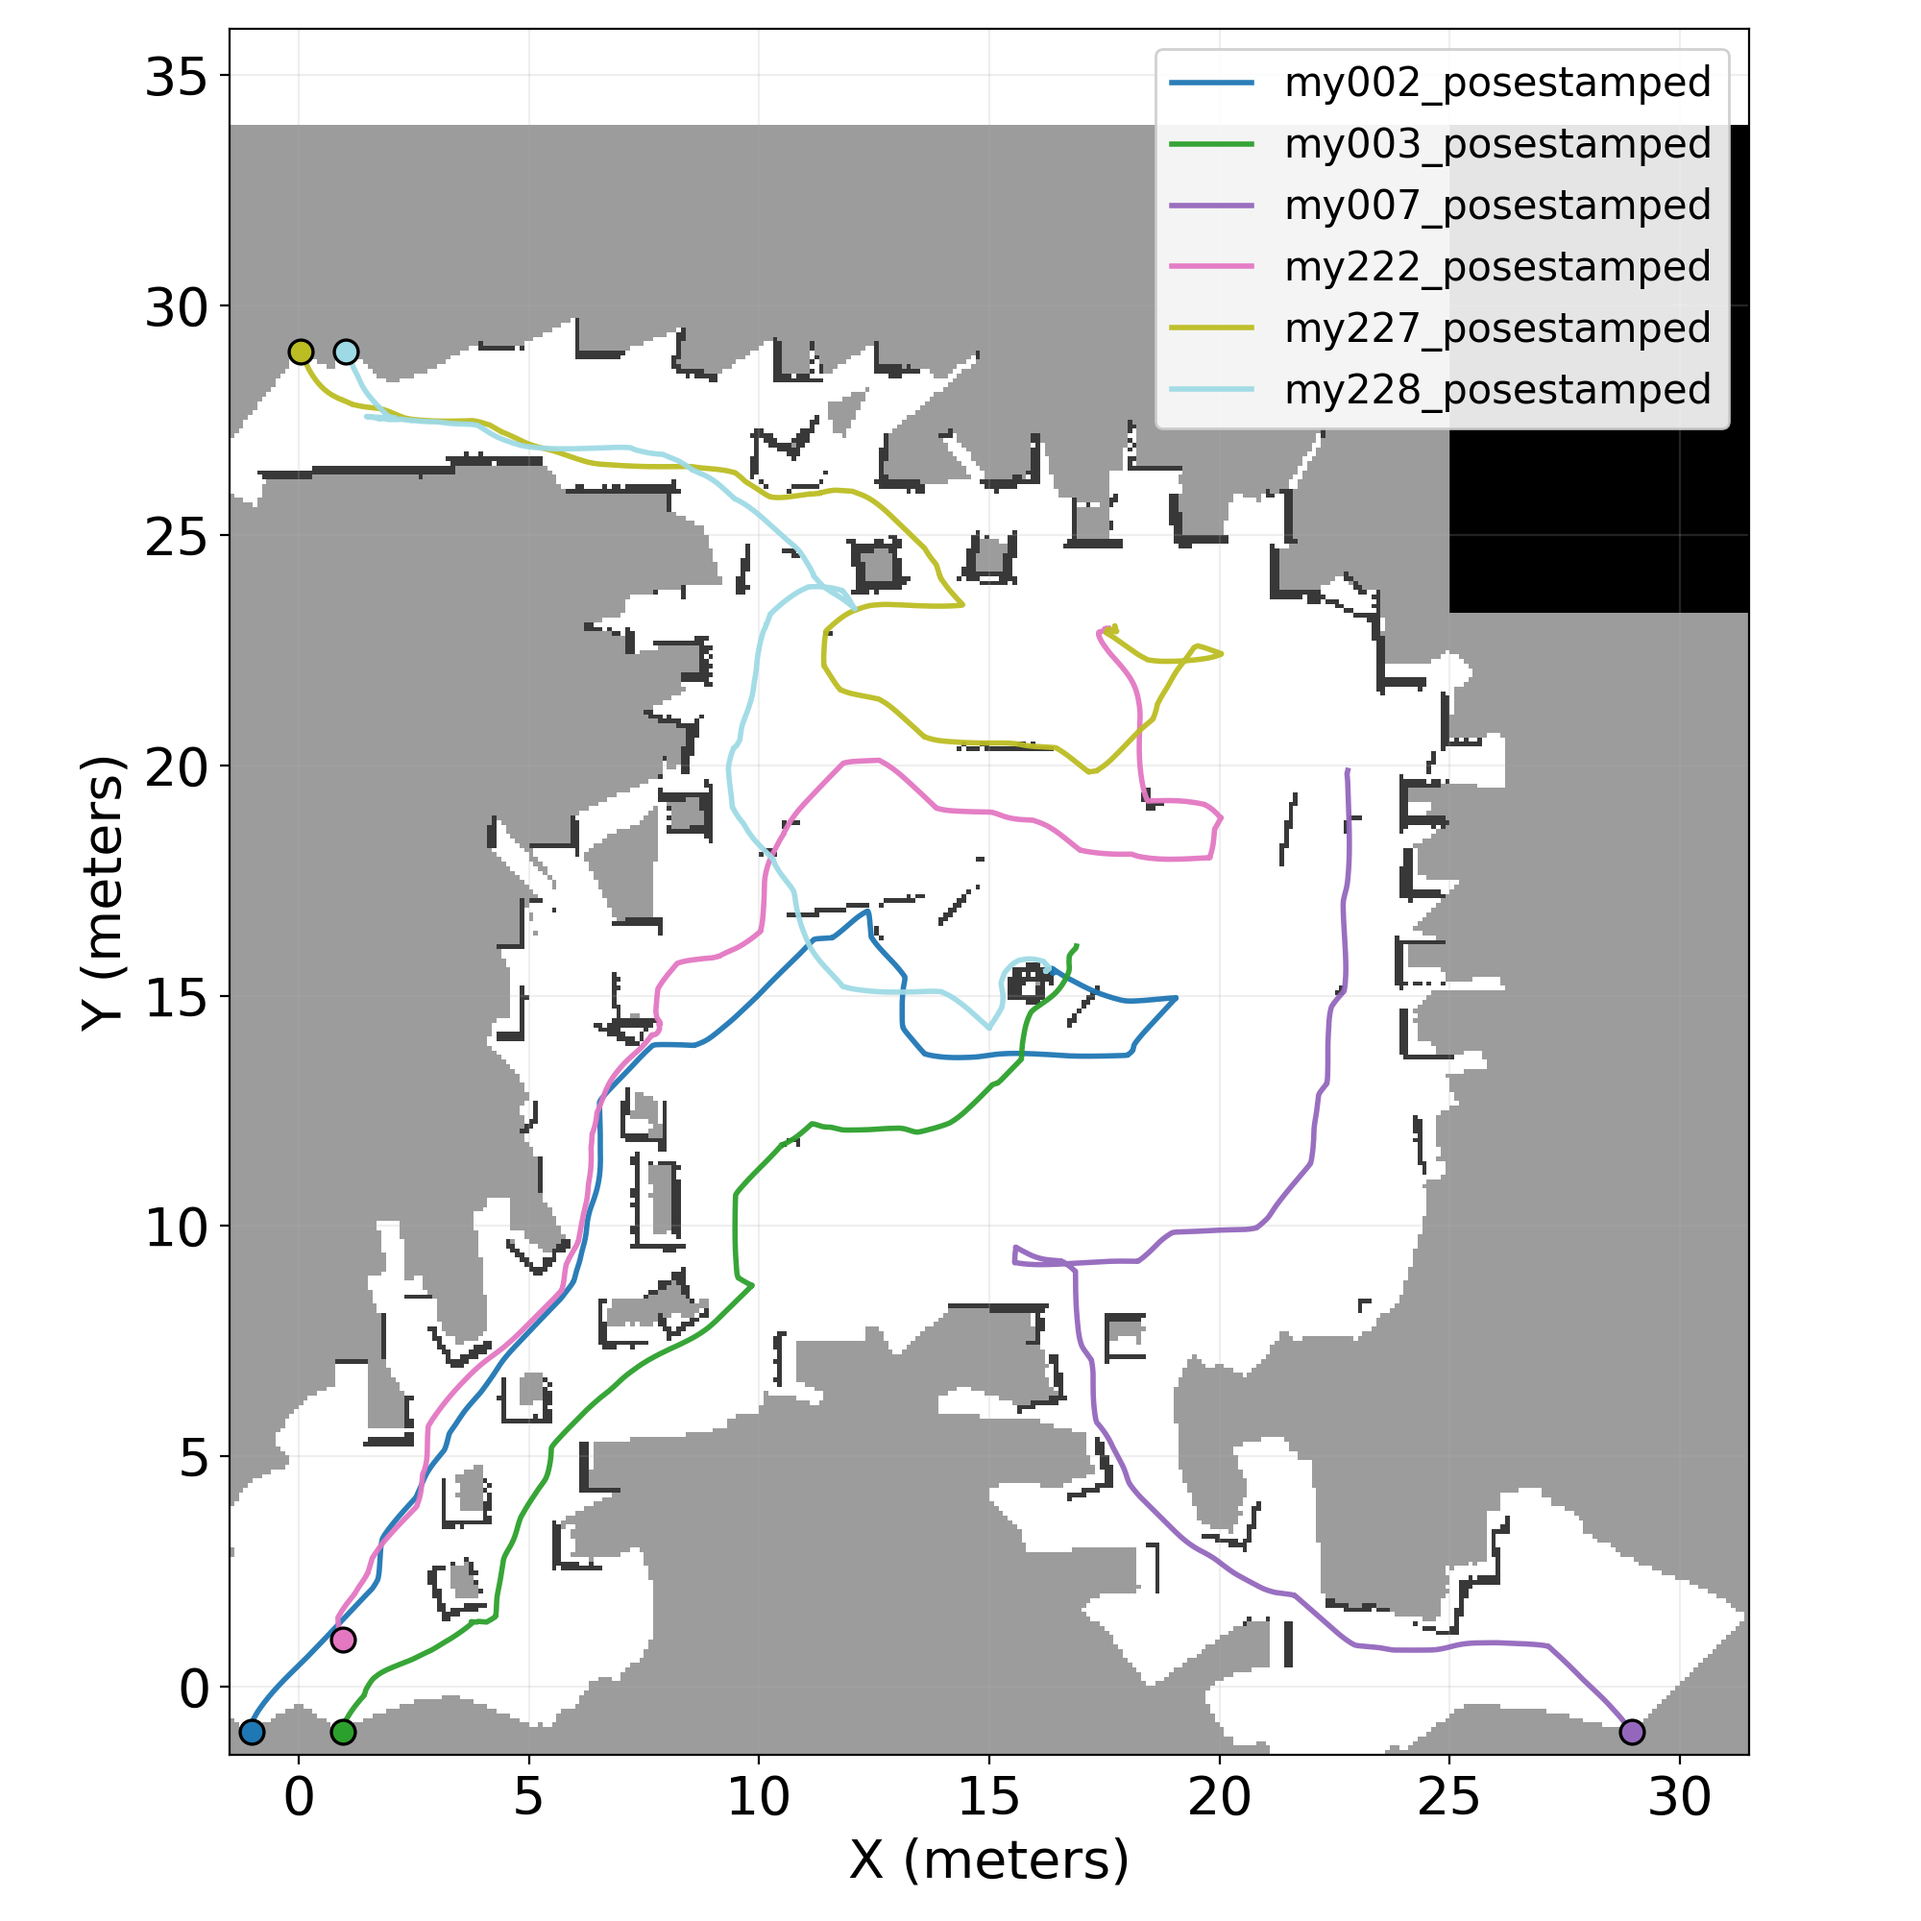
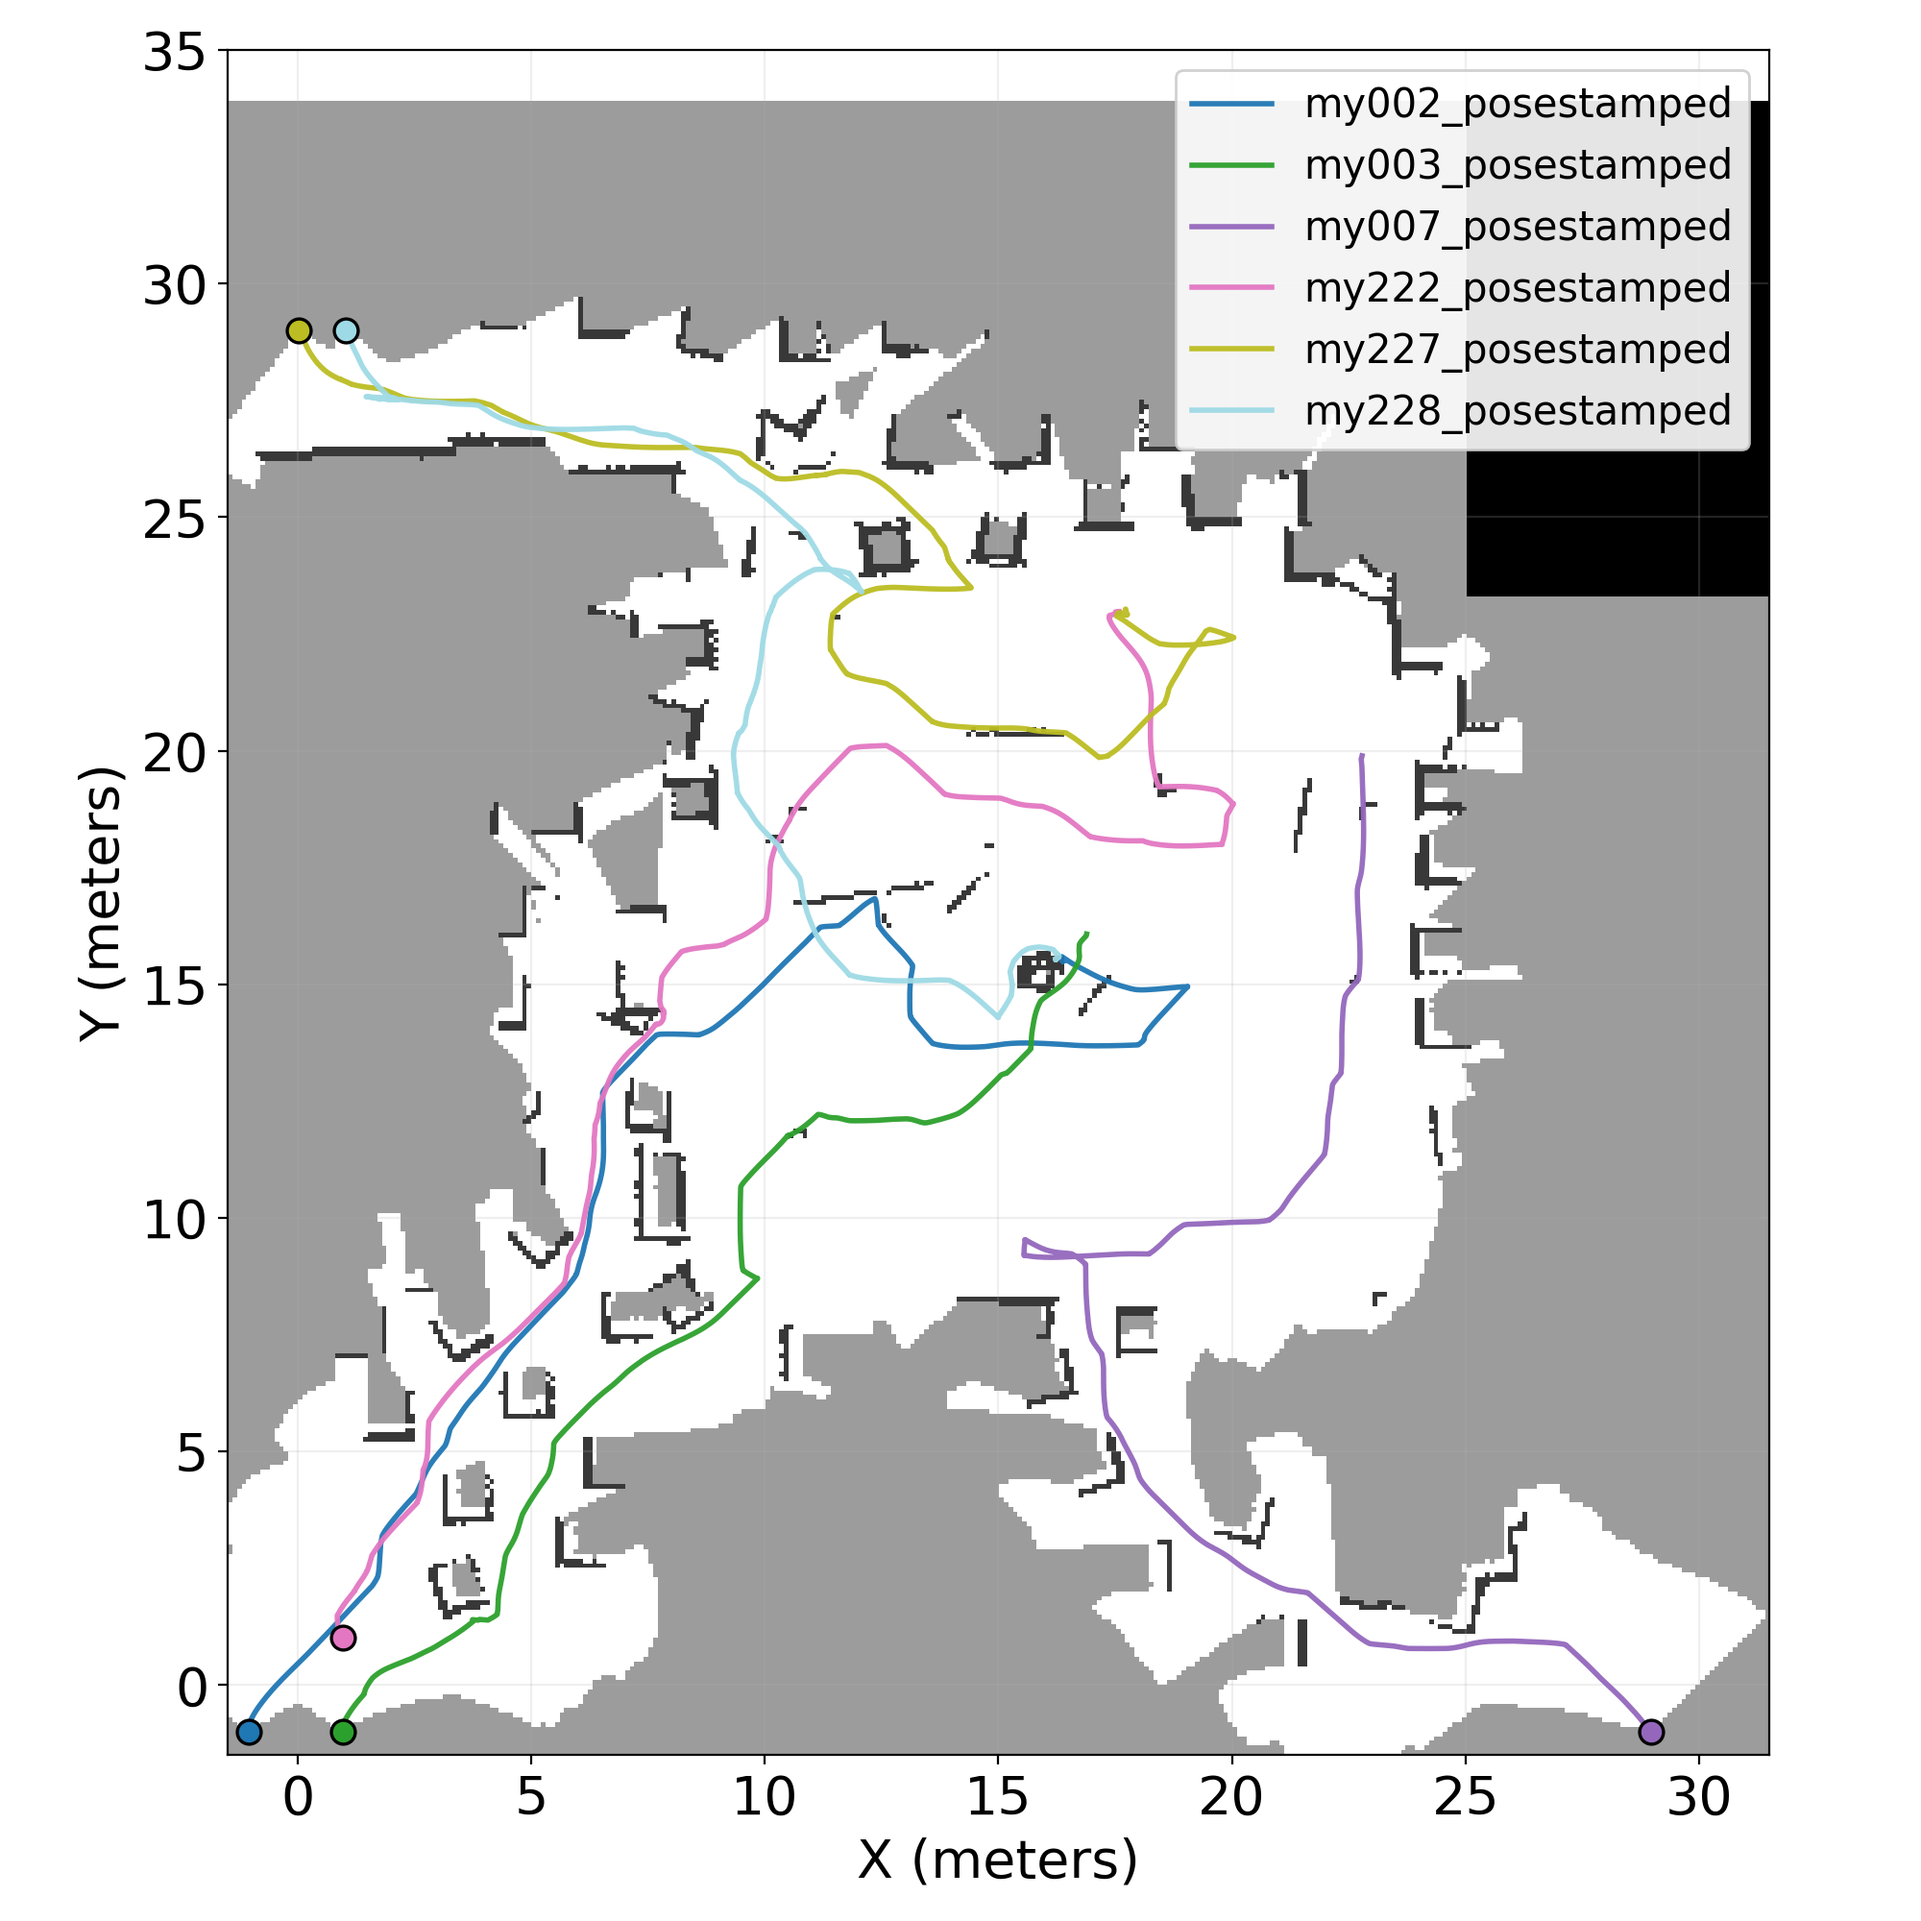
map1 지도 완료

diff --git a/src/pose_map_logger/pose_map_logger/trajectory_plot_with_map.py b/src/pose_map_logger/pose_map_logger/trajectory_plot_with_map.py
@@ -88,8 +88,8 @@ def plot_robot_trajectories_with_map(folder_path, map_csv_path, save_filename='r
     # plt.title('Robot Trajectories over Map')
     plt.xticks(fontsize=20)
     plt.yticks(fontsize=20)
-    plt.xlim(-1.5, 26) # -1.5, 35 -1.5, 26
-    plt.ylim(7, 31.5) # -1.5, 35  7, 31.5
+    plt.xlim(-1.5, 31.5) # -1.5, 35 -1.5, 26
+    plt.ylim(-1.5, 35) # -1.5, 35  7, 31.5
     plt.xlabel('X (meters)', fontsize=20)
     plt.ylabel('Y (meters)', fontsize=20)
     plt.legend(loc='upper right', fontsize=15, framealpha=0.9)
